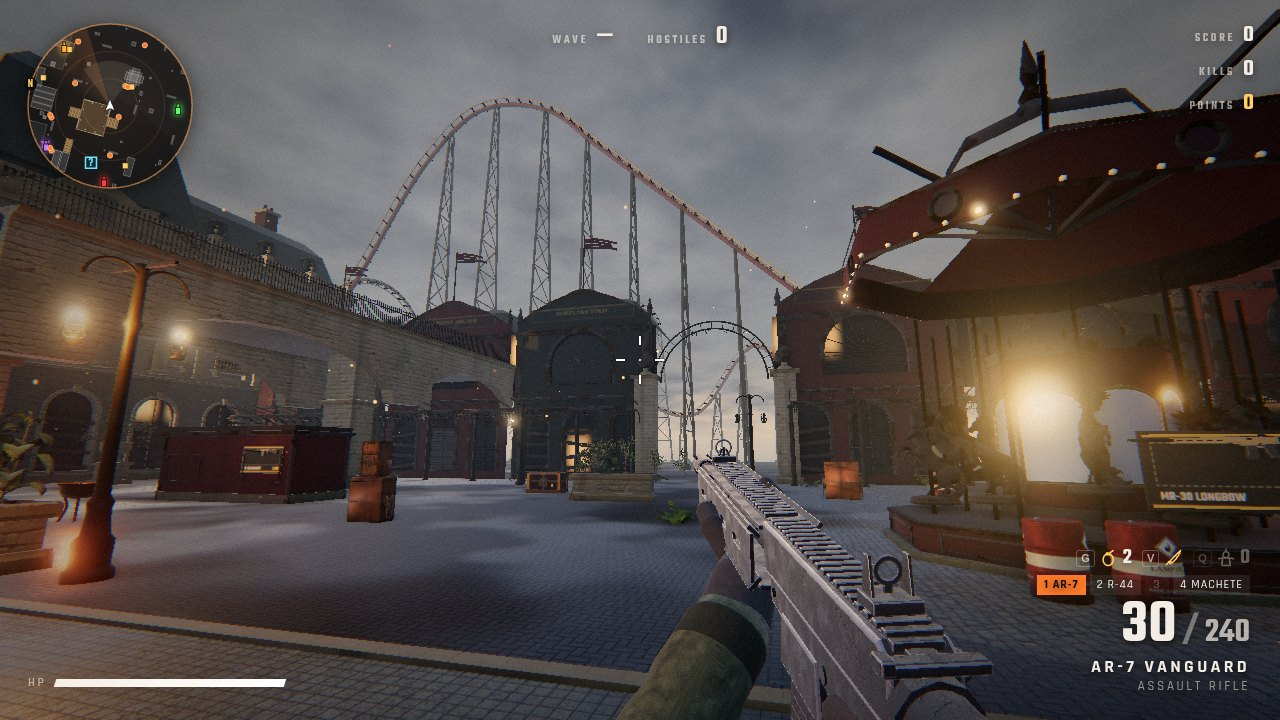
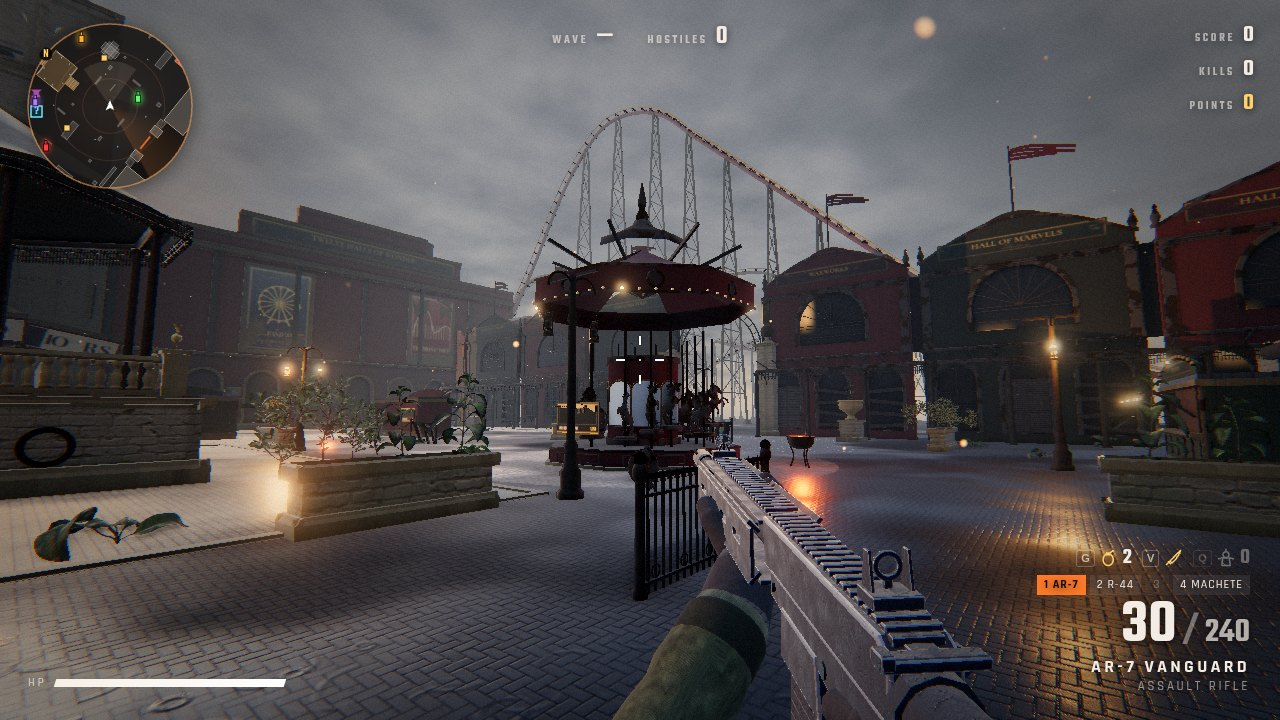
Perk machines: dark enamel cabinets (no neon-green box); fresh README screenshots and og image

diff --git a/src/world/drinks.js b/src/world/drinks.js
@@ -49,7 +49,8 @@ export class Drinks {
     const chrome = new THREE.MeshStandardMaterial({ color: '#a78445', roughness: 0.3, metalness: 1 });
     DRINKS.list.forEach((d, i) => {
       const col = new THREE.Color(d.color);
-      const paint = new THREE.MeshStandardMaterial({ color: col.clone().multiplyScalar(0.55), roughness: 0.35, metalness: 0.35 });
+      // enamel cabinet weathered dark (its colour reads from the glowing trim, not a neon box)
+      const paint = new THREE.MeshStandardMaterial({ color: new THREE.Color('#2a2118').lerp(col, 0.05), roughness: 0.55, metalness: 0.45 });
       const glow = new THREE.MeshStandardMaterial({ color: '#000', emissive: col, emissiveIntensity: 1.5 });
       const g = new THREE.Group(); g.position.set(d.x, d.y || 0, d.z); g.rotation.y = d.ry;
       const W = 1.0, D = 0.8, H = 1.95;
@@ -57,7 +58,7 @@ export class Drinks {
       const body = new THREE.Mesh(new THREE.BoxGeometry(W, H, D), paint); body.position.y = H / 2 + 0.06; body.castShadow = body.receiveShadow = true; g.add(body);
       const plinth = new THREE.Mesh(new THREE.BoxGeometry(W + 0.08, 0.08, D + 0.06), metal); plinth.position.y = 0.04; g.add(plinth);
       if (i === 0) { const dome = new THREE.Mesh(new THREE.CylinderGeometry(D / 2, D / 2, W, 24, 1, false, 0, Math.PI), paint); dome.rotation.set(0, 0, Math.PI / 2); dome.position.y = H + 0.06; g.add(dome); }
-      if (i === 1) { const wedge = new THREE.Mesh(new THREE.BoxGeometry(W + 0.02, 0.5, 0.3), paint); wedge.rotation.x = -0.5; wedge.position.set(0, H - 0.1, D / 2 - 0.02); g.add(wedge); for (const sx of [-1, 1]) { const fin = new THREE.Mesh(new THREE.BoxGeometry(0.05, H * 0.9, 0.2), glow); fin.position.set(sx * (W / 2 + 0.02), H / 2, D / 2 - 0.1); g.add(fin); } }
+      if (i === 1) { const wedge = new THREE.Mesh(new THREE.BoxGeometry(W + 0.02, 0.5, 0.3), paint); wedge.rotation.x = -0.5; wedge.position.set(0, H - 0.1, D / 2 - 0.02); g.add(wedge); for (const sx of [-1, 1]) { const fin = new THREE.Mesh(new THREE.BoxGeometry(0.05, H * 0.9, 0.2), chrome); fin.position.set(sx * (W / 2 + 0.02), H / 2, D / 2 - 0.1); g.add(fin); } }
       if (i === 2) { for (const sx of [-1, 1]) { const colm = new THREE.Mesh(new THREE.CylinderGeometry(0.12, 0.12, H + 0.25, 16), chrome); colm.position.set(sx * (W / 2 + 0.08), (H + 0.25) / 2, D / 2 - 0.15); g.add(colm); const bulb = new THREE.Mesh(new THREE.SphereGeometry(0.11, 14, 10), glow); bulb.position.set(sx * (W / 2 + 0.08), H + 0.33, D / 2 - 0.15); g.add(bulb); } }
       if (i === 3) { const crown = new THREE.Mesh(new THREE.ConeGeometry(0.62, 0.42, 4), paint); crown.rotation.y = Math.PI / 4; crown.position.y = H + 0.27; g.add(crown); const orb = new THREE.Mesh(new THREE.SphereGeometry(0.12, 16, 12), glow); orb.position.y = H + 0.55; g.add(orb); for (const sx of [-1, 1]) { const curl = new THREE.Mesh(new THREE.TorusGeometry(0.14, 0.025, 8, 18, Math.PI * 1.5), chrome); curl.position.set(sx * 0.52, 0.5, D / 2); g.add(curl); } }
       // lit sign up top, glass window with drinks stacked behind it, coin slot, dispenser flap
